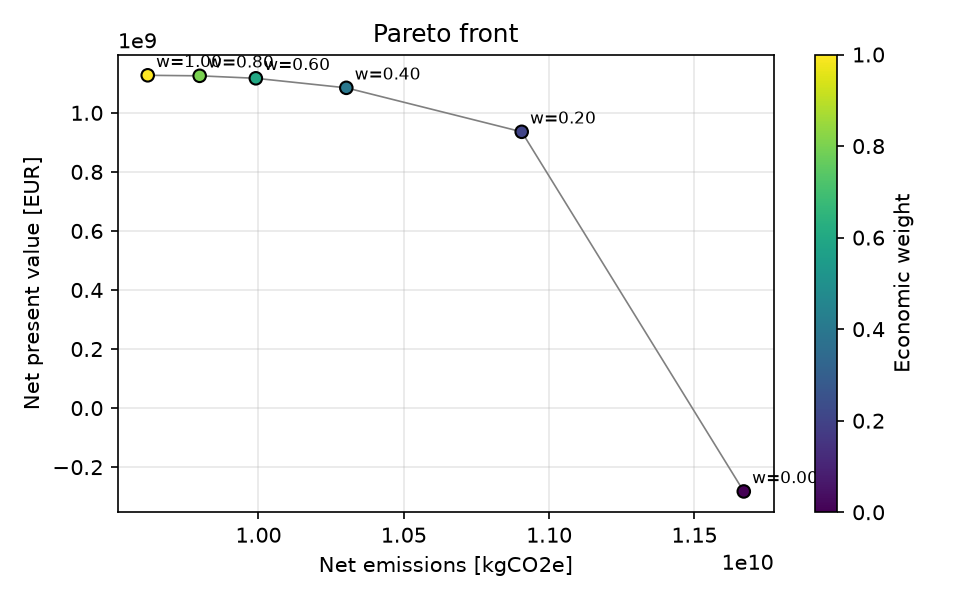
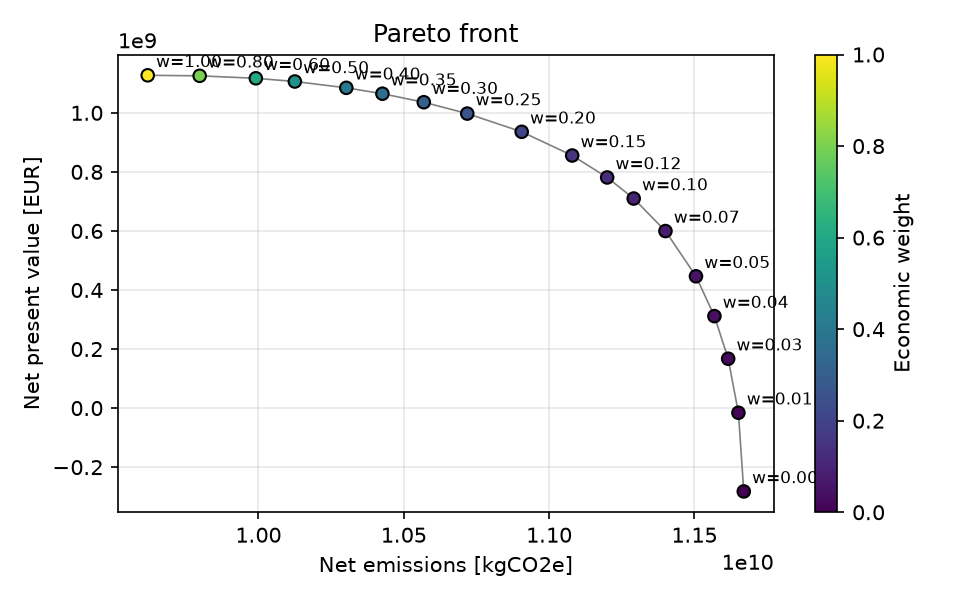
implemented augmecon
implemented augmented epsilon constraint multi-objective optimization method for generating worse pareto fronts with higher wall clock time

diff --git a/src/shipp/kernel_sizing.py b/src/shipp/kernel_sizing.py
@@ -495,7 +495,7 @@ def solve_sizing_SOO(model, meta, dimension='economic'):
 
 
 def solve_sizing_MOO(model, meta, method='weighted_sum', weights=None,
-                     n_points=11, verbose=False):
+                     n_points=11, eps=1e-4, verbose=False):
     if not meta['env_available']:
         raise ValueError(
             "MOO requires environmental costs; the following assets "
@@ -574,8 +574,124 @@ def solve_sizing_MOO(model, meta, method='weighted_sum', weights=None,
             })
 
     if method == 'augmecon':
-        raise NotImplementedError(
-            "AUGMECON is not yet implemented.")
+        n_pts = int(n_points)
+        if n_pts < 1:
+            raise ValueError(
+                "n_points must be >= 1 for augmecon, got {}".format(n_pts))
+
+        # --- payoff table with lexicographic tie-break ---
+        sol_eco = solve_sizing_SOO(model, meta, dimension='economic')
+        j_eco_max = sol_eco['objectives']['economic']
+
+        if hasattr(model, 'obj'):
+            model.del_component(model.obj)
+        model.lex_fix = pyo.Constraint(
+            expr=model.J_eco >= j_eco_max * (1 - 1e-9))
+        model.obj = pyo.Objective(expr=model.J_env, sense=pyo.maximize)
+        opt = pyo.SolverFactory(meta['name_solver'])
+        if 'gurobi' in meta['name_solver']:
+            opt.options['MIPGap'] = 1e-6
+            opt.options['Seed'] = 0
+            opt.options['Threads'] = 1
+            opt.options['StartNodeLimit'] = -3
+            opt.options['NumericFocus'] = 3
+        results = opt.solve(model, tee=meta['verbose'])
+        if not (results.solver.status is pyo.SolverStatus.ok
+                and results.solver.termination_condition
+                is pyo.TerminationCondition.optimal):
+            raise RuntimeError(
+                "Lexicographic payoff solve (eco->env) failed: status={}, "
+                "termination={}".format(results.solver.status,
+                                        results.solver.termination_condition))
+        j_env_at_eco_max = pyo.value(model.J_env)
+        model.del_component(model.obj)
+        model.del_component(model.lex_fix)
+
+        sol_env = solve_sizing_SOO(model, meta, dimension='environmental')
+        j_env_max = sol_env['objectives']['environmental']
+
+        r_env = j_env_max - j_env_at_eco_max
+        if r_env < 1e-12:
+            raise ValueError(
+                "Environmental range is zero; AUGMECON is undefined.")
+        step = r_env / n_pts
+        margin = max(1e-9 * step, 1e-12 * abs(j_env_max))
+
+        # --- slack variable, RHS param, constraint, objective (once) ---
+        if hasattr(model, 'obj'):
+            model.del_component(model.obj)
+        model.s_env = pyo.Var(domain=pyo.NonNegativeReals)
+        model.augmecon_rhs = pyo.Param(initialize=j_env_at_eco_max,
+                                       mutable=True)
+        model.augmecon_con = pyo.Constraint(
+            expr=model.J_env - model.s_env == model.augmecon_rhs)
+        model.obj = pyo.Objective(
+            expr=model.J_eco + eps * model.s_env / r_env,
+            sense=pyo.maximize)
+
+        solutions = []
+        k = 0
+        try:
+            while k <= n_pts:
+                e_k = j_env_at_eco_max + k * step
+                if k == n_pts:
+                    e_k -= margin
+                model.augmecon_rhs.set_value(e_k)
+
+                if verbose:
+                    print("  eps_k={:.4g} (k={})...".format(e_k, k),
+                          end=" ", flush=True)
+                t_w = time.perf_counter()
+
+                opt = pyo.SolverFactory(meta['name_solver'])
+                if 'gurobi' in meta['name_solver']:
+                    opt.options['MIPGap'] = 1e-6
+                    opt.options['Seed'] = 0
+                    opt.options['Threads'] = 1
+                    opt.options['StartNodeLimit'] = -3
+                    opt.options['NumericFocus'] = 3
+                results = opt.solve(model, tee=meta['verbose'])
+
+                t_solve = time.perf_counter() - t_w
+
+                status = results.solver.status
+                term = results.solver.termination_condition
+                if (status is pyo.SolverStatus.ok
+                        and term is pyo.TerminationCondition.optimal):
+                    eco_val = pyo.value(model.J_eco)
+                    env_val = pyo.value(model.J_env)
+                    slack = pyo.value(model.s_env)
+                    if verbose:
+                        print("{:.2f} s  J_eco={:.4g}  J_env={:.4g}  "
+                              "s={:.4g}".format(t_solve, eco_val, env_val,
+                                                slack))
+                    solutions.append({
+                        'method': 'augmecon',
+                        'epsilon': e_k,
+                        'scale_env': r_env,
+                        'objectives': {'economic': eco_val,
+                                       'environmental': env_val},
+                        'os_result': extract_solution(model, meta),
+                    })
+                    b = int(slack / step)
+                    k += 1 + max(b, 0)
+                elif term in (pyo.TerminationCondition.infeasible,
+                              pyo.TerminationCondition.infeasibleOrUnbounded):
+                    if verbose:
+                        print("infeasible, early exit")
+                    break
+                else:
+                    raise RuntimeError(
+                        "AUGMECON solve did not return an optimal solution: "
+                        "status={}, termination={}, k={}, eps_k={}".format(
+                            status, term, k, e_k))
+        finally:
+            model.del_component(model.obj)
+            model.del_component(model.augmecon_con)
+            model.del_component(model.augmecon_rhs)
+            model.del_component(model.s_env)
+
+        return solutions
 
     if method != 'weighted_sum' and method != 'augmecon':
         raise ValueError(

diff --git a/wrapper/runner.py b/wrapper/runner.py
@@ -213,6 +213,7 @@ def run_case(case):
                 model, meta, method=method,
                 weights=tn.get('weight_sweep'),
                 n_points=tn.get('n_points', 11),
+                eps=tn.get('epsilon', 1e-4),
                 verbose=verbose)
     t_wall = time.perf_counter() - t
     if verbose:
@@ -288,7 +289,7 @@ if __name__ == '__main__':
         },
         'technical': {
             'mode': 'environmental',
-            'method': 'weighted_sum',
+            'method': 'augmecon',
             'token': '96e53647b34ef4fb37b6958e9285eff9938ad7ce',
             'budget_tol': 1e-4,
             'formulation': 'milp',
@@ -296,7 +297,9 @@ if __name__ == '__main__':
             'beta_obj': BETA_OBJ_DEFAULT,
             'verbose': True,
             'plot_dispatch': True,
-            'weight_sweep': [0.0, 0.2, 0.4, 0.6, 0.8, 1.0],
+            'weight_sweep': [0.0, 0.0125, 0.025, 0.0375, 0.05, 0.075, 0.1, 0.125, 0.15, 0.2, 0.25, 0.3, 0.35, 0.4, 0.5, 0.6, 0.8, 1.0],
+            'epsilon': 1e-4,
+            'n_points': 17,
         },
     }
     sols, summaries = run_case(case)
